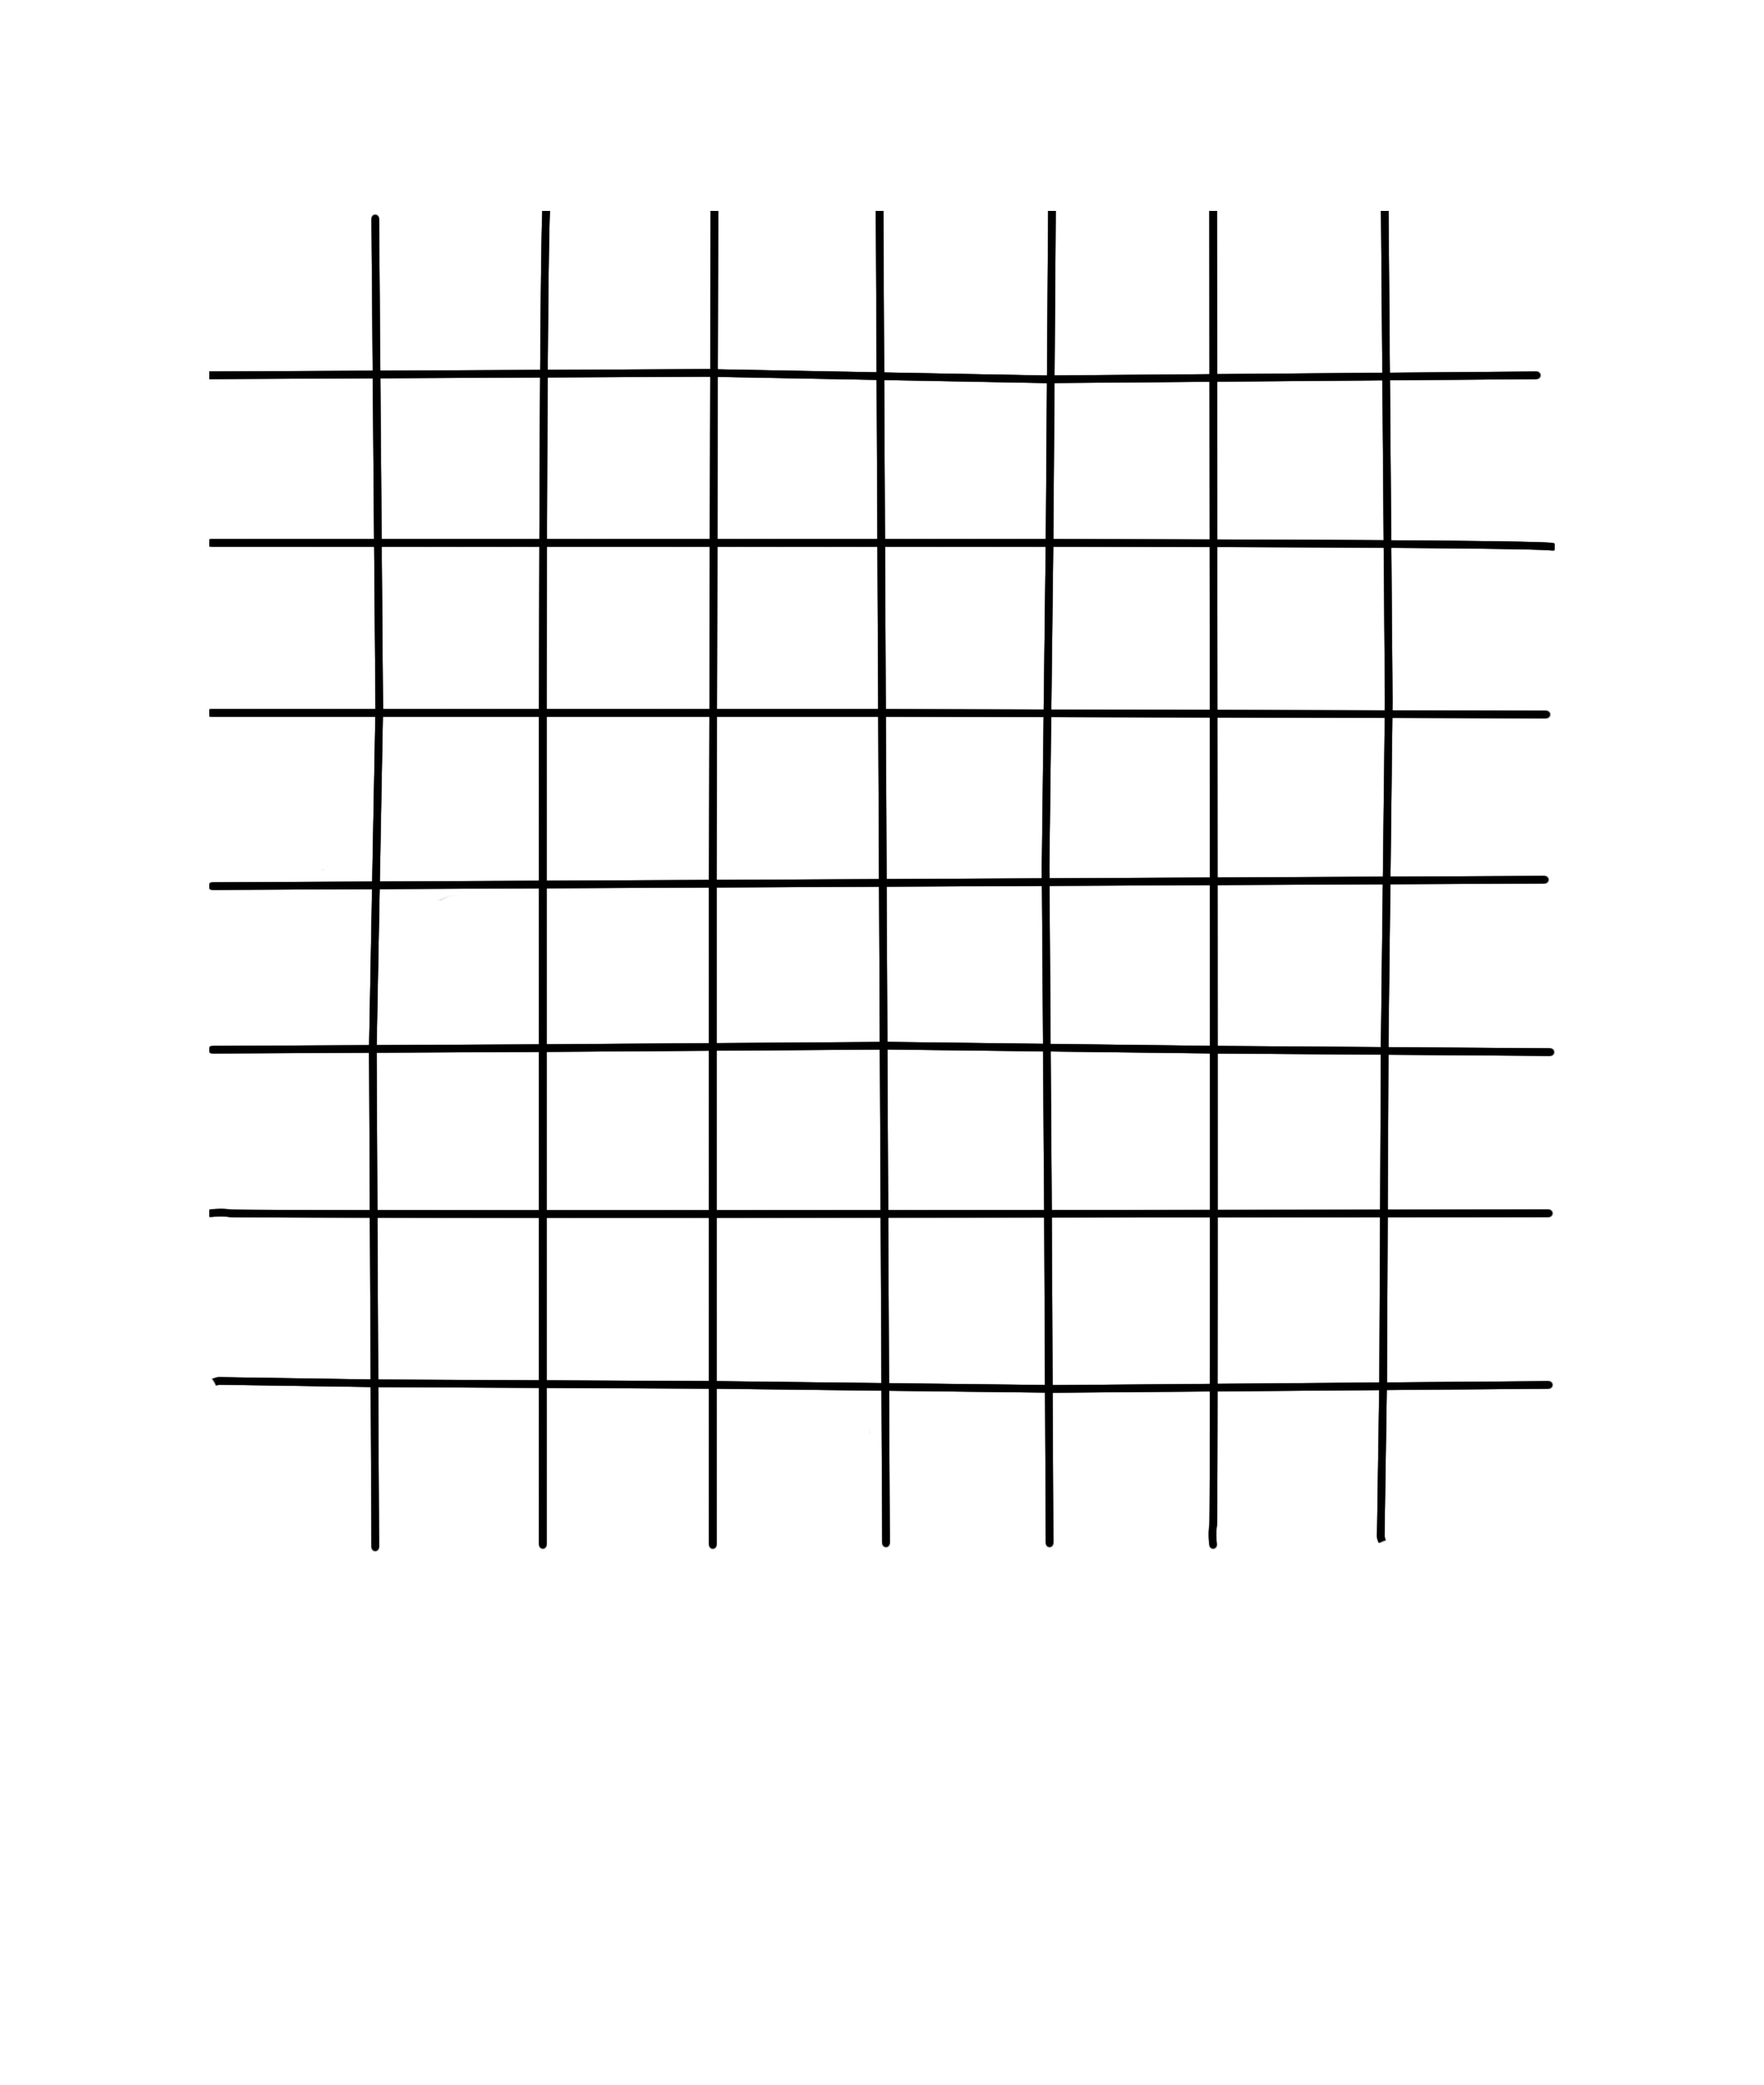
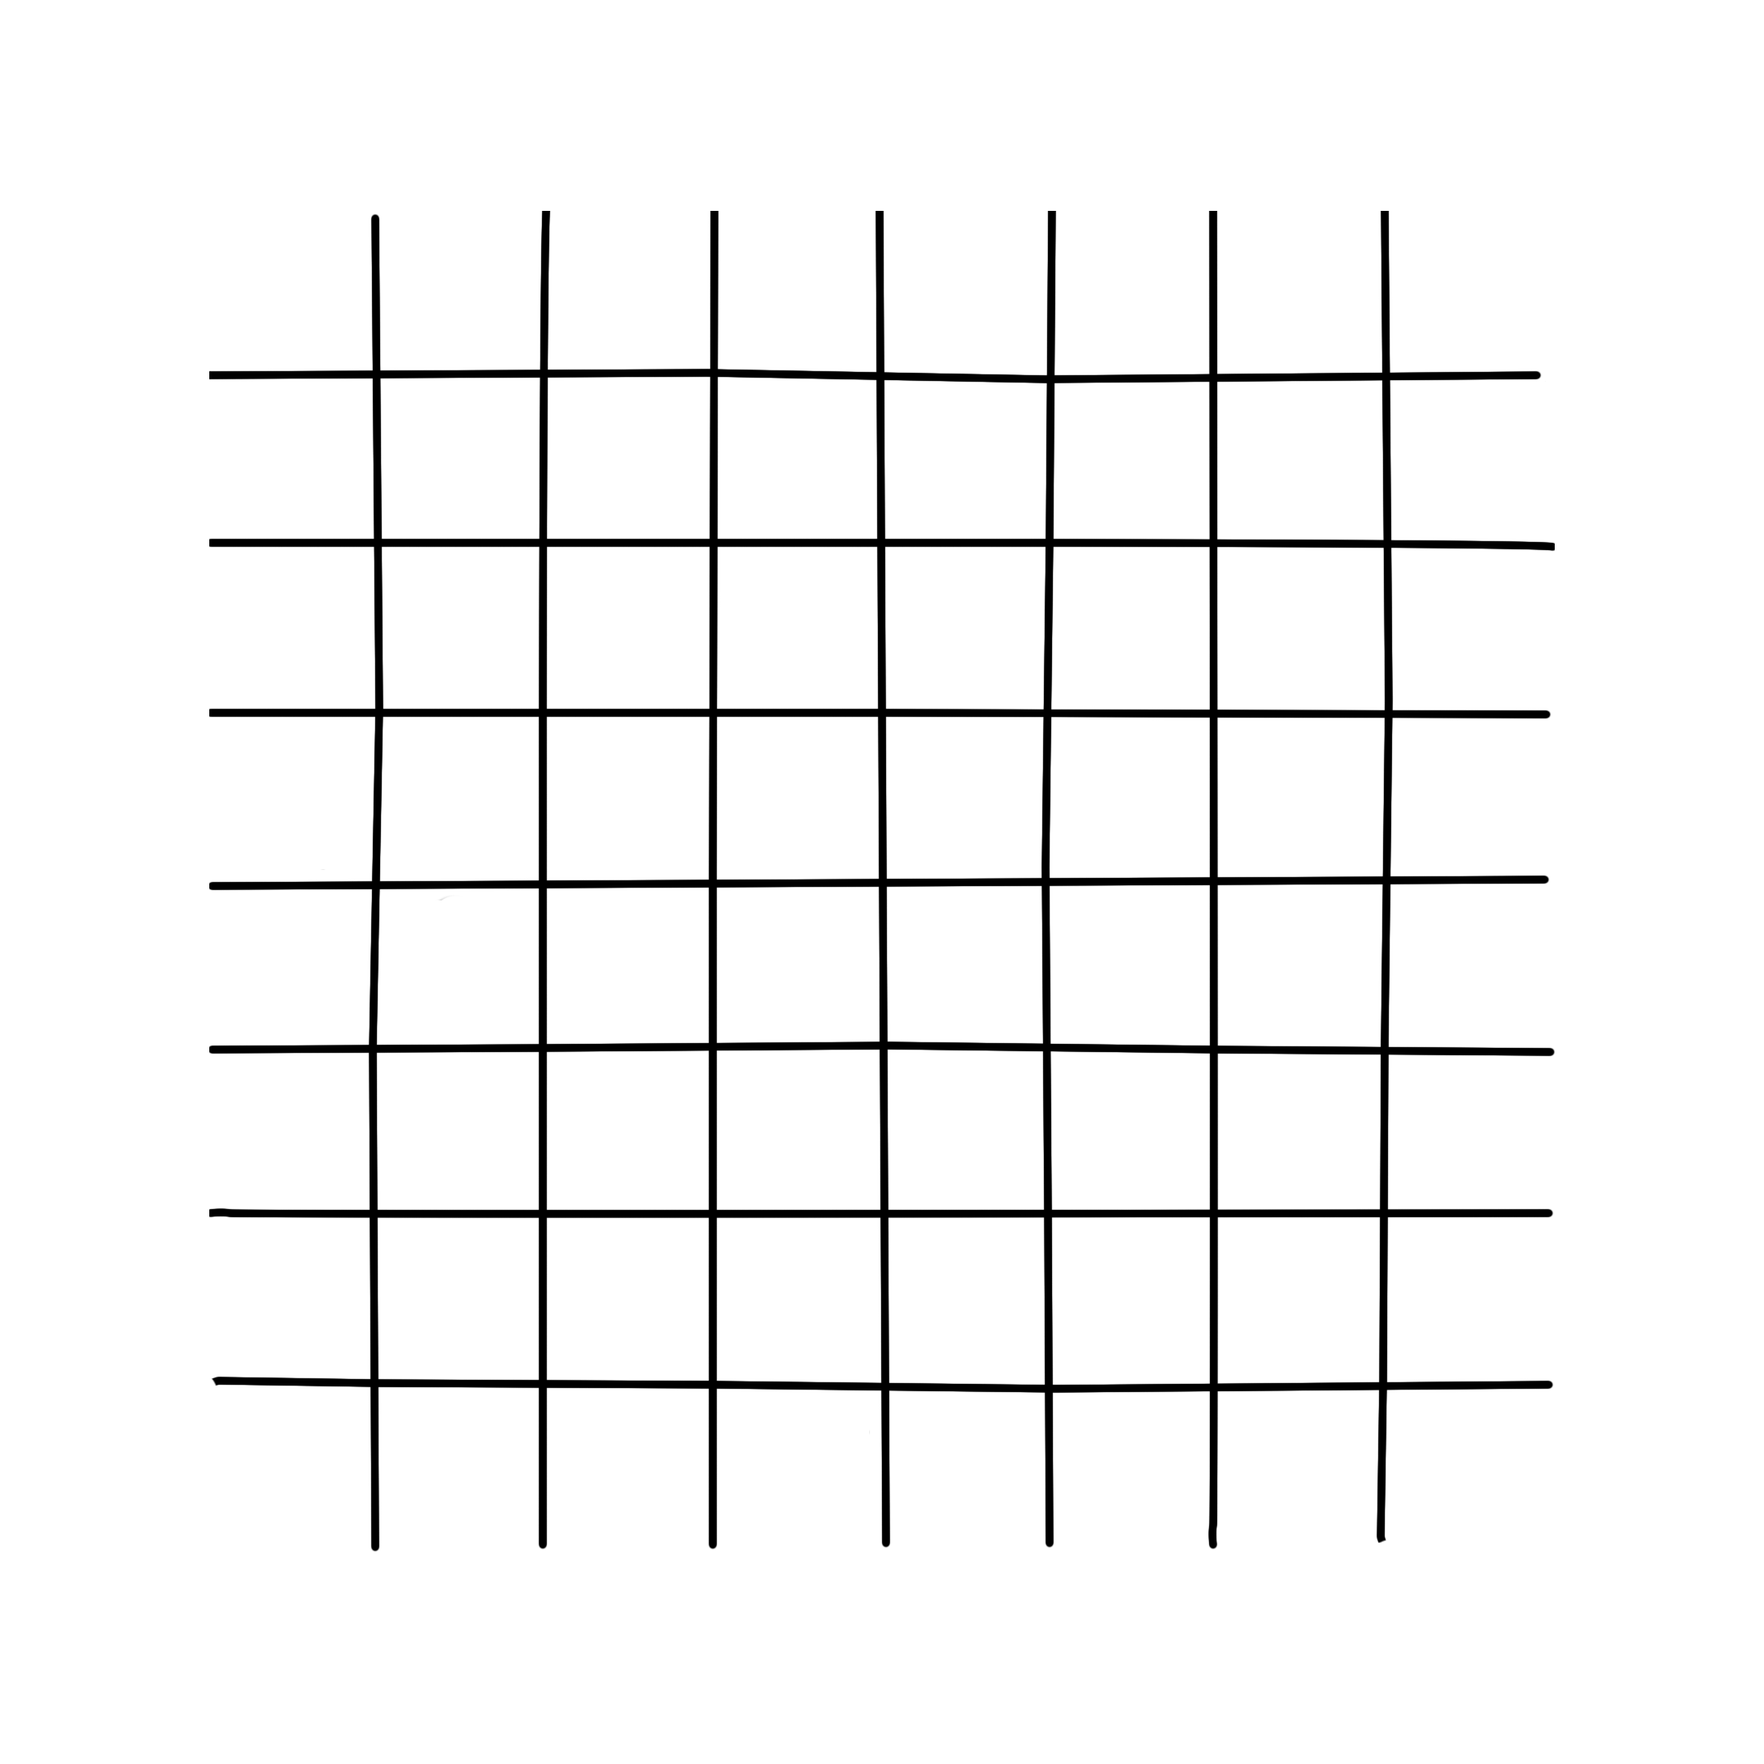
allow passing padding

diff --git a/src/server/server.ts b/src/server/server.ts
@@ -118,12 +118,31 @@ app.get('/', function (req, res) {
 
 // Merida grid piece compositing
 app.get('/fen/merida', function (req, res) {
-  const fen = req.query.fen;
-  const inverse = req.query.inverse;
+  const {fen, inverse, bottom, left} = req.query;
+
   if (fen === undefined || typeof fen !== 'string') {
-    res.status(400).send('Invalid fen query param');
+    res.status(400).send('Invalid query param');
     return;
   }
+
+  if (bottom && typeof bottom !== 'string') {
+    res.status(400).send('Invalid query param');
+    return;
+  }
+  if (left && typeof left !== 'string') {
+    res.status(400).send('Invalid query param');
+    return;
+  }
+
+  let b, l = 0;
+  try {
+    b = parseInt(bottom ?? '0') ?? 0;
+    l = parseInt(left ?? '0') ?? 0;
+  } catch {
+    res.status(400).send('Invalid query param 2');
+    return;
+  }
+
   const SQUARE_SIZE = 210; //px
   const prefix = path.join(path.resolve(), '/img/merida');
 
@@ -160,7 +179,7 @@ app.get('/fen/merida', function (req, res) {
         images.push({
           input: path.join(prefix, url),
           top: 265 + SQUARE_SIZE * i,
-          left: 263 + SQUARE_SIZE * j,
+          left: l + 263 + SQUARE_SIZE * j,
         });
         j += 1;
       } else {
@@ -172,6 +191,13 @@ app.get('/fen/merida', function (req, res) {
   sharp(path.join(prefix, 'grid-template.png'))
     .composite(images)
     .linear(0, 255 * Number(!!inverse))
+    .extend({
+      top: 0,
+      left: l,
+      right: 0,
+      bottom: b,
+      background: {r: 0, g: 0, b: 0, alpha: 0},
+    })
     .pipe(res);
 });
 
